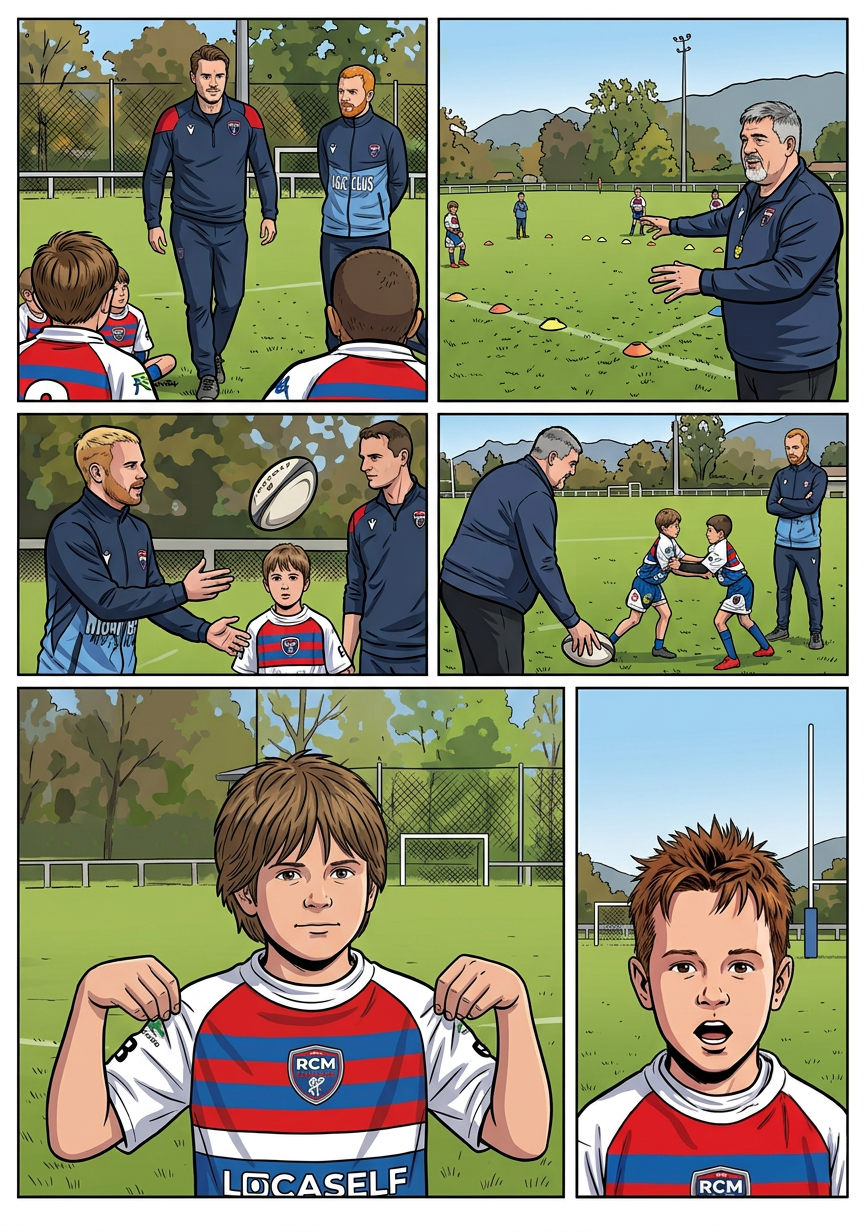
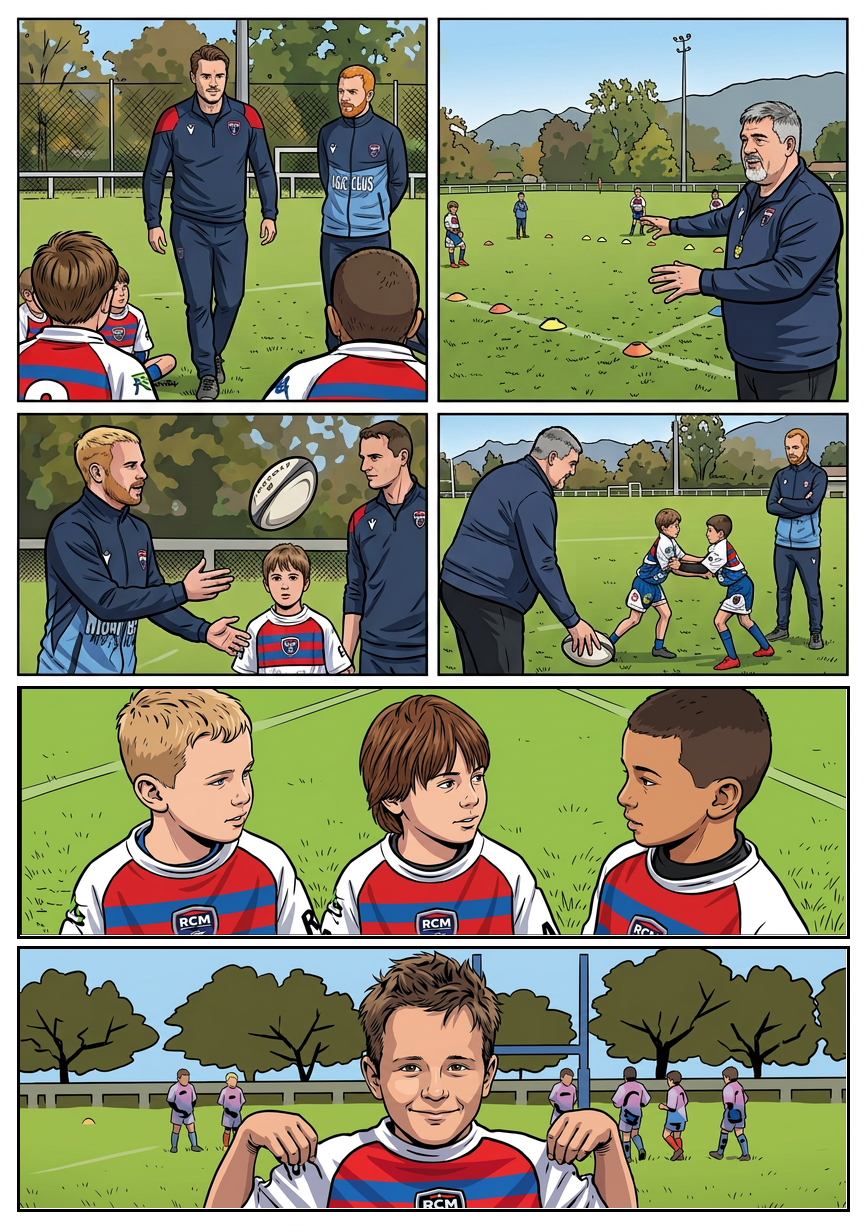
Restore page 04 panel layout, assemble repaired page 09 and fix cover smile locally

diff --git a/Planches-dessin/SUIVI-STYLE.md b/Planches-dessin/SUIVI-STYLE.md
@@ -50,3 +50,28 @@ Les quatre vignettes ont été générées séparément depuis l'original. Les c
 ### Réserves
 
 Cette passe corrige les écarts de rendu les plus visibles ; elle n'est pas une validation exhaustive de tous les visages, vêtements, lettres et détails de toutes les pages. Les pages non retouchées ne sont pas automatiquement déclarées conformes. Vérifier en particulier les expressions des gros plans (notamment 04, vignette 6) contre les originaux : ne pas propager la bouche ouverte du témoin simplement parce que son style a été validé. Contrôler les six cases remplacées à leur taille de lecture avant validation finale ; les différences d'identité ou de contenu restent des critères de rejet.
+
+## Deuxième contrôle et corrections locales
+
+Cette section remplace l'état précédent de 04 et 09.
+
+Comparaison visuelle des originaux et des sorties courantes 00–10, y compris les retouches précédentes. Ce contrôle révèle notamment que le découpage inférieur de 04 avait dérivé : la case originale à trois enfants et la dernière case panoramique avaient été remplacées par deux portraits côte à côte.
+
+### Corrections intégrées
+
+- **04, vignette 5** : reconstitution de la case à trois enfants depuis la source originale, avec trois coiffures et carnations distinctes.
+- **04, vignette 6** : reconstitution du garçon tenant son maillot avec les deux mains, sourire fermé et format horizontal. Fond redessiné sans flou photographique.
+- **04, mise en page** : deux cases horizontales superposées rétablies en bas. Quatre cases supérieures conservées pixel à pixel.
+- **09, vignette 1** : candidat isolé de la passe précédente intégré, poignée de mains et adversaires vert/noir conservés.
+- **09, vignette 2** : nouveau gros plan avec cheveux courts châtain clair rabattus de côté, sans les pics importés du témoin. Expression sérieuse et bouche fermée.
+- **09, vignette 3** : scène de consolation reprise ; feuillage et sol remplacés par des silhouettes graphiques et des aplats, sans fond photographique. Trois enfants conservés.
+- **09, vignette 4** : candidat isolé de la passe précédente intégré ; scène avec bouteille et coachs conservée, sans trio de coureurs ajouté.
+- **00, couverture** : sourire fermé du garçon central rétabli par retouche limitée à la bouche. Aucun autre pixel de la couverture modifié durant cette passe.
+
+### Vérification technique
+
+`validation/corrections-vignettes/controle-passe-2.json` contient les zones et résultats. Dimensions conservées. Différence nulle hors de la zone de la bouche sur 00 et hors du bas de page sur 04. Pour 09, les quatre cases sont assemblées sur l'original normalisé à 864 × 1222 ; ses marges et gouttières sont conservées, vérifiées par différence pixel à pixel. Ce test technique ne démontre pas à lui seul la fidélité des identités à l'intérieur des cases.
+
+### Rejets et points encore ouverts
+
+Deux essais de simplification des fonds de 07 (vignettes 2 et 6) ont été écartés : des expressions/détails de premier plan ont dérivé. Le fichier 07 n'a pas été remplacé. Préférer une correction avec masque limité aux fonds pour ne pas toucher aux visages. Ne pas déclarer toute la série parfaitement homogène : il reste des nuances de traitement, et les petits logos/lettrages générés ne sont pas fiabilisés. La planche 01 validée par l'utilisateur reste inchangée malgré son écart d'expression déjà signalé avant validation. Les pages 11–30 restent suspendues.
